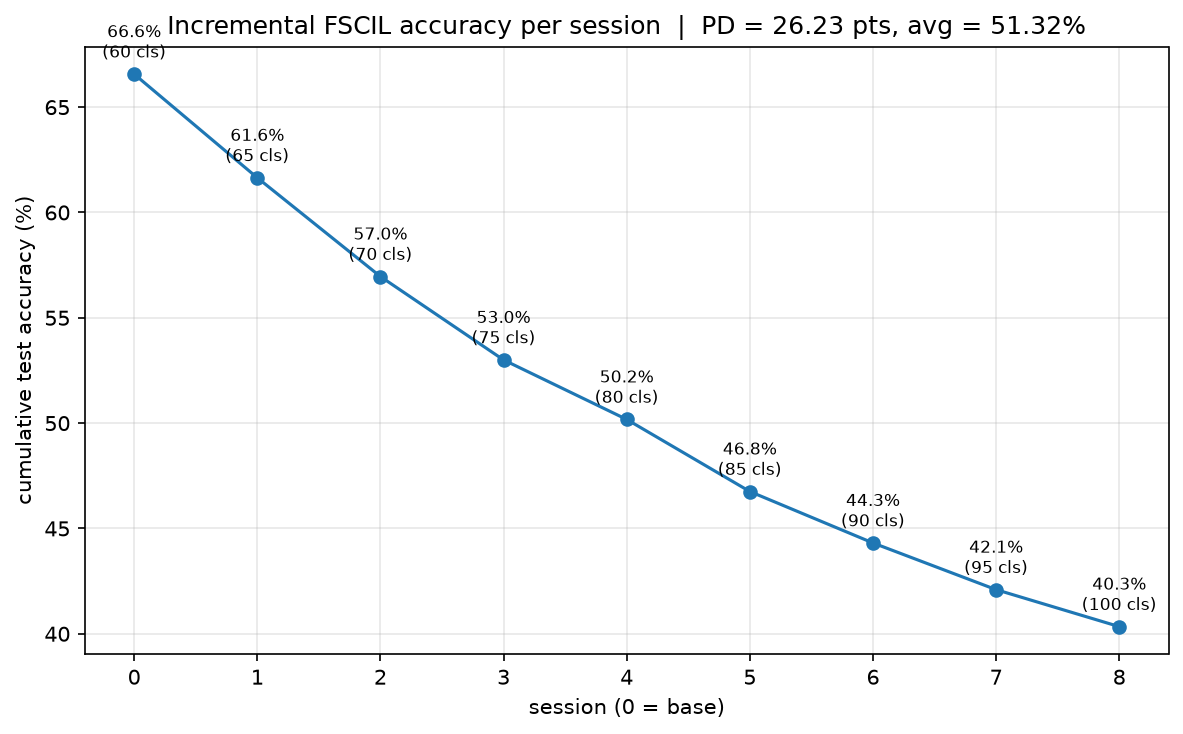
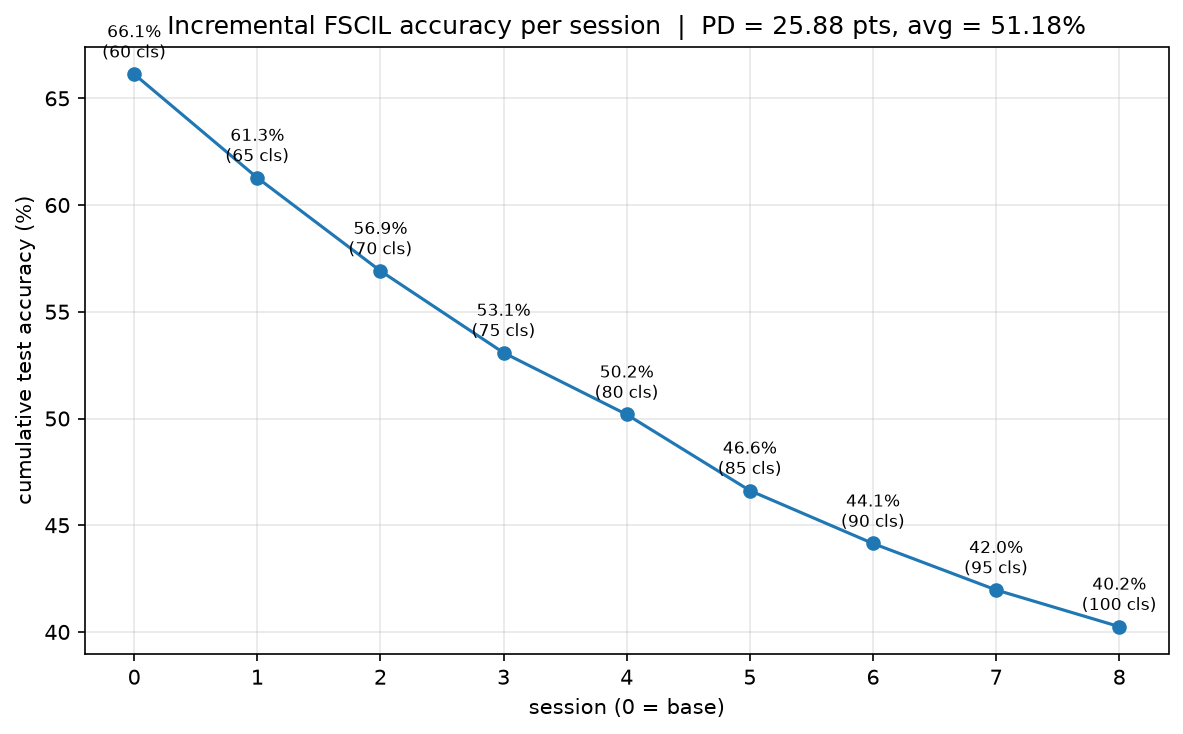
miniImageNet (rescored) result: base 66.13%, final 40.25%, PD 25.88, avg 51.18%, A_B 56.12%, A_N 16.45%, HM 25.44%
Auto-committed by the training orchestrator.

Claude-Session: https://claude.ai/code/session_01GDGJYxSeGz7wbgpdPrPcEm

diff --git a/results/REPORT.md b/results/REPORT.md
@@ -1,13 +1,13 @@
 # STAG-STI — Results & Analysis
 
-_Generated 2026-09-08 18:46 • auto-updated as runs complete._
+_Generated 2026-09-08 18:47 • auto-updated as runs complete._
 
 ## In-domain results
 
 | Dataset | A₀ (base) | A_T (final) | PD ↓ | Avg | A_B | A_N | HM |
 |---|---|---|---|---|---|---|---|
 | CIFAR-100 | 78.22 | 49.53 | 28.69 | 62.08 | 68.72 | 20.75 | 31.87 |
-| miniImageNet | 66.57 | 40.34 | 26.23 | 51.32 | 56.20 | 16.55 | 25.57 |
+| miniImageNet | 66.13 | 40.25 | 25.88 | 51.18 | 56.12 | 16.45 | 25.44 |
 | CUB-200 | 1.05 | 1.73 | -0.68 | 5.39 | 0.00 | 3.41 | 0.00 |
 
 ## Cross-domain (miniImageNet → CUB)
@@ -21,7 +21,7 @@ _Generated 2026-09-08 18:46 • auto-updated as runs complete._
 | FACT | TODO | TODO | 56.94 |
 | SAVC | TODO | TODO | 62.50 |
 | CLOSER | TODO | TODO | 63.58 |
-| **STAG-STI (ours)** | **49.53** | **40.34** | **1.73** |
+| **STAG-STI (ours)** | **49.53** | **40.25** | **1.73** |
 
 _CUB-200 baselines from the Review-1 deck; CIFAR-100 / miniImageNet baselines are TODO — fill from the source papers._
 
